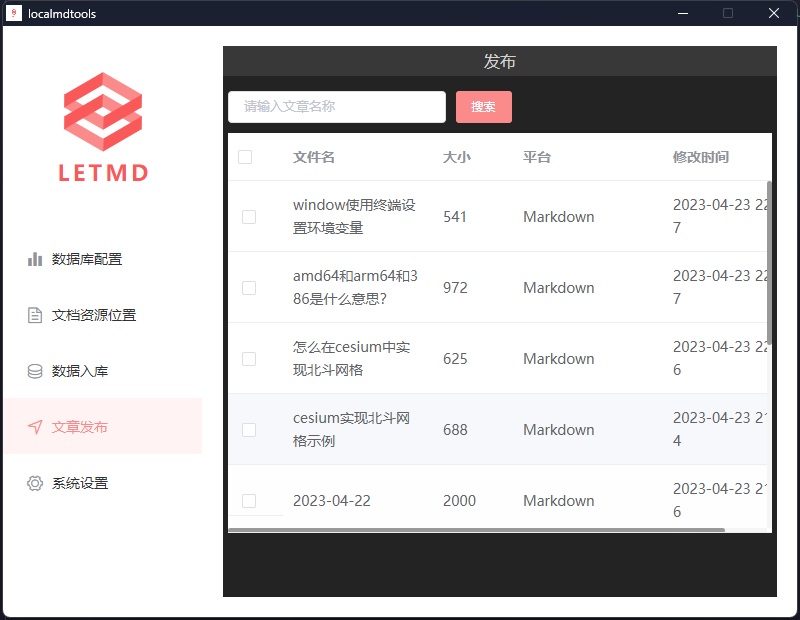
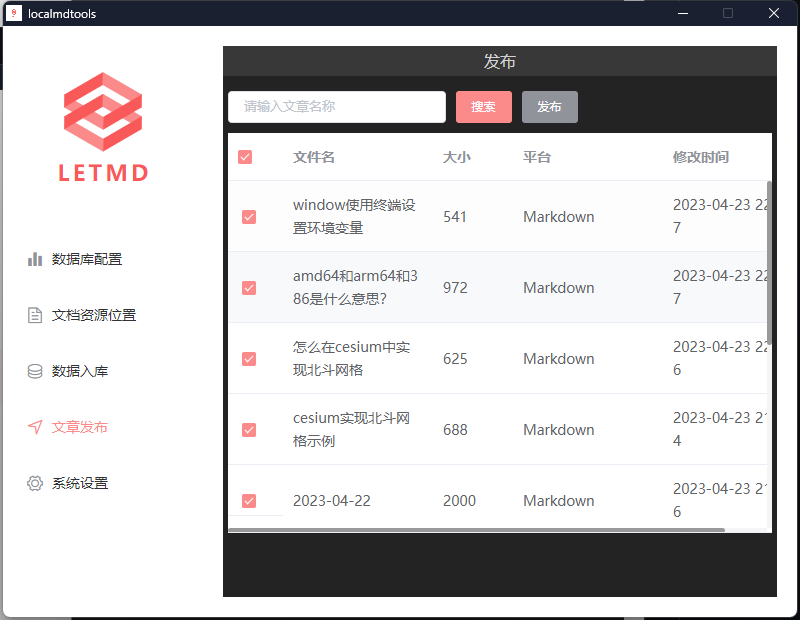
截图

diff --git a/README.md b/README.md
@@ -114,6 +114,6 @@ if (isDevelopment) {
 ![](screenshot/img_3.png)
 + 数据库ER图
 ![](screenshot/img_4.png)
-
-
++ 文章批量发布
+  ![](screenshot/img_5.png)
 
